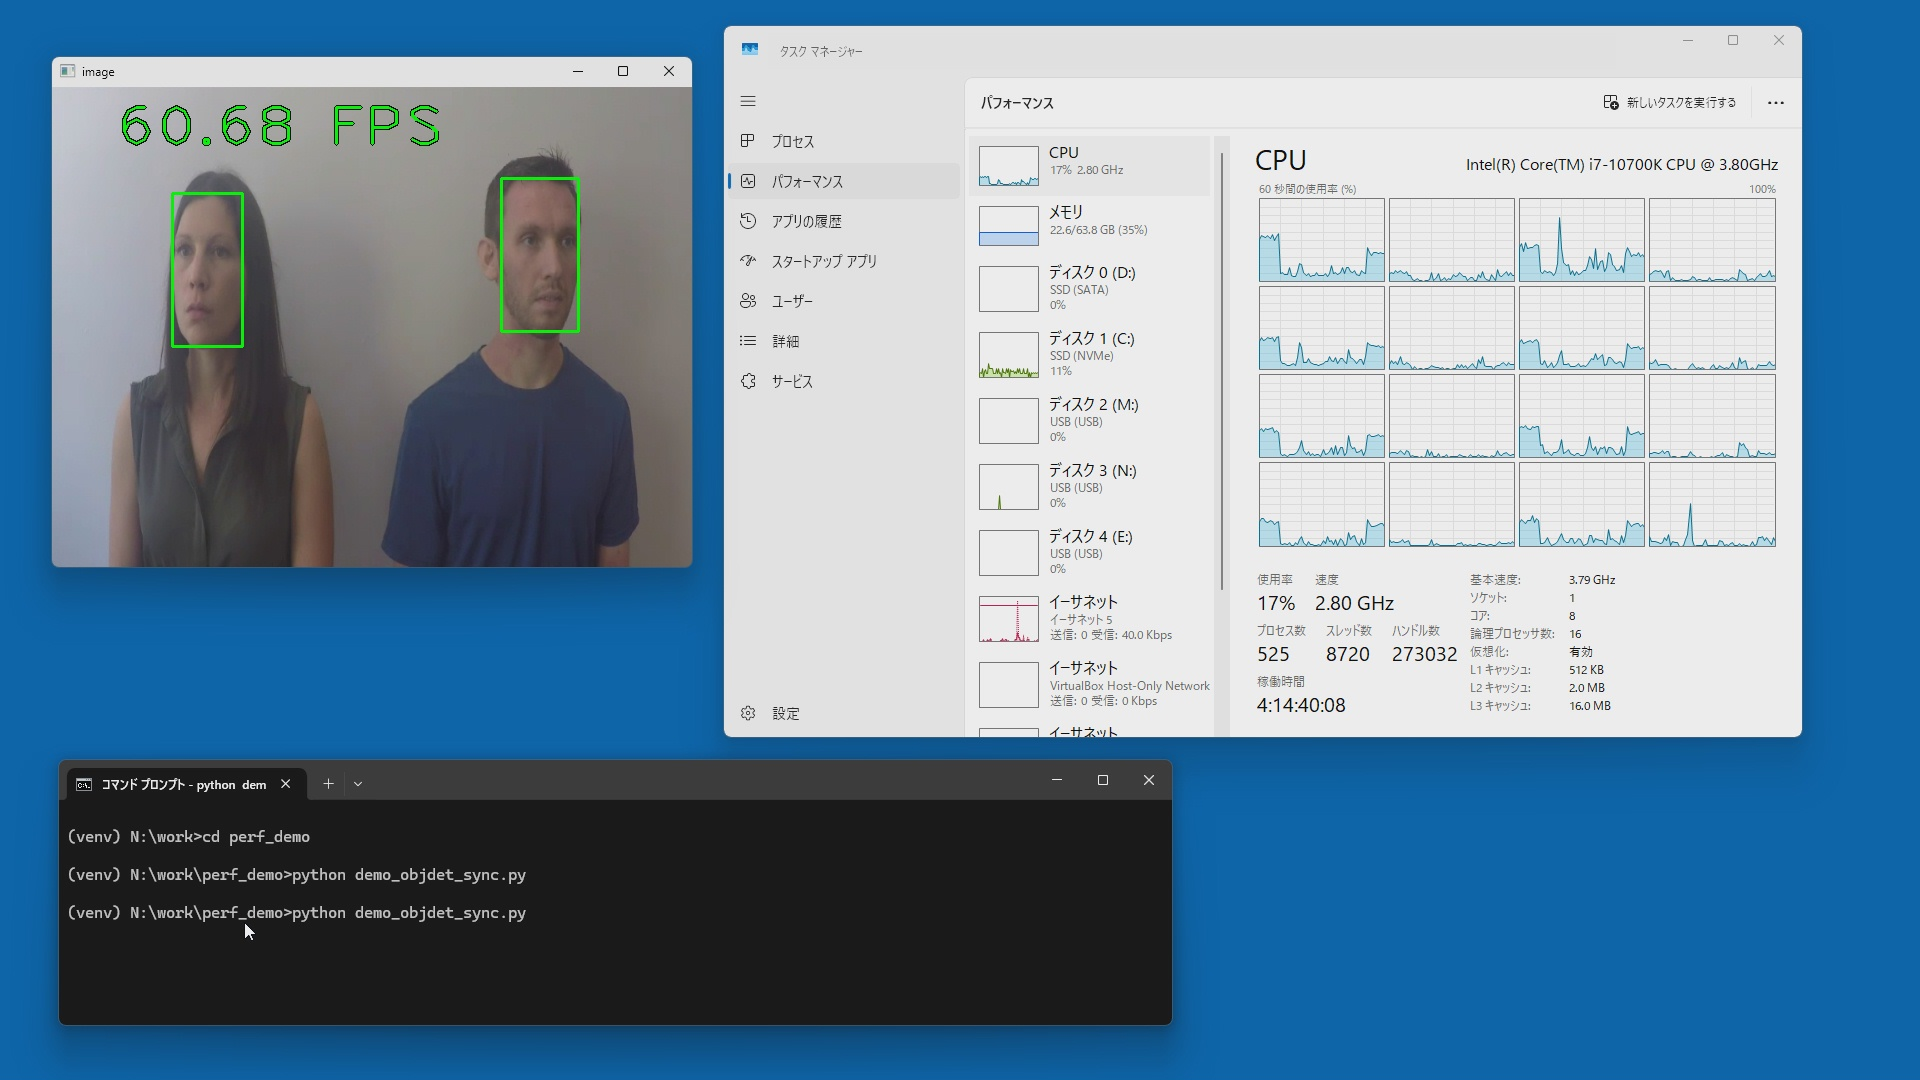
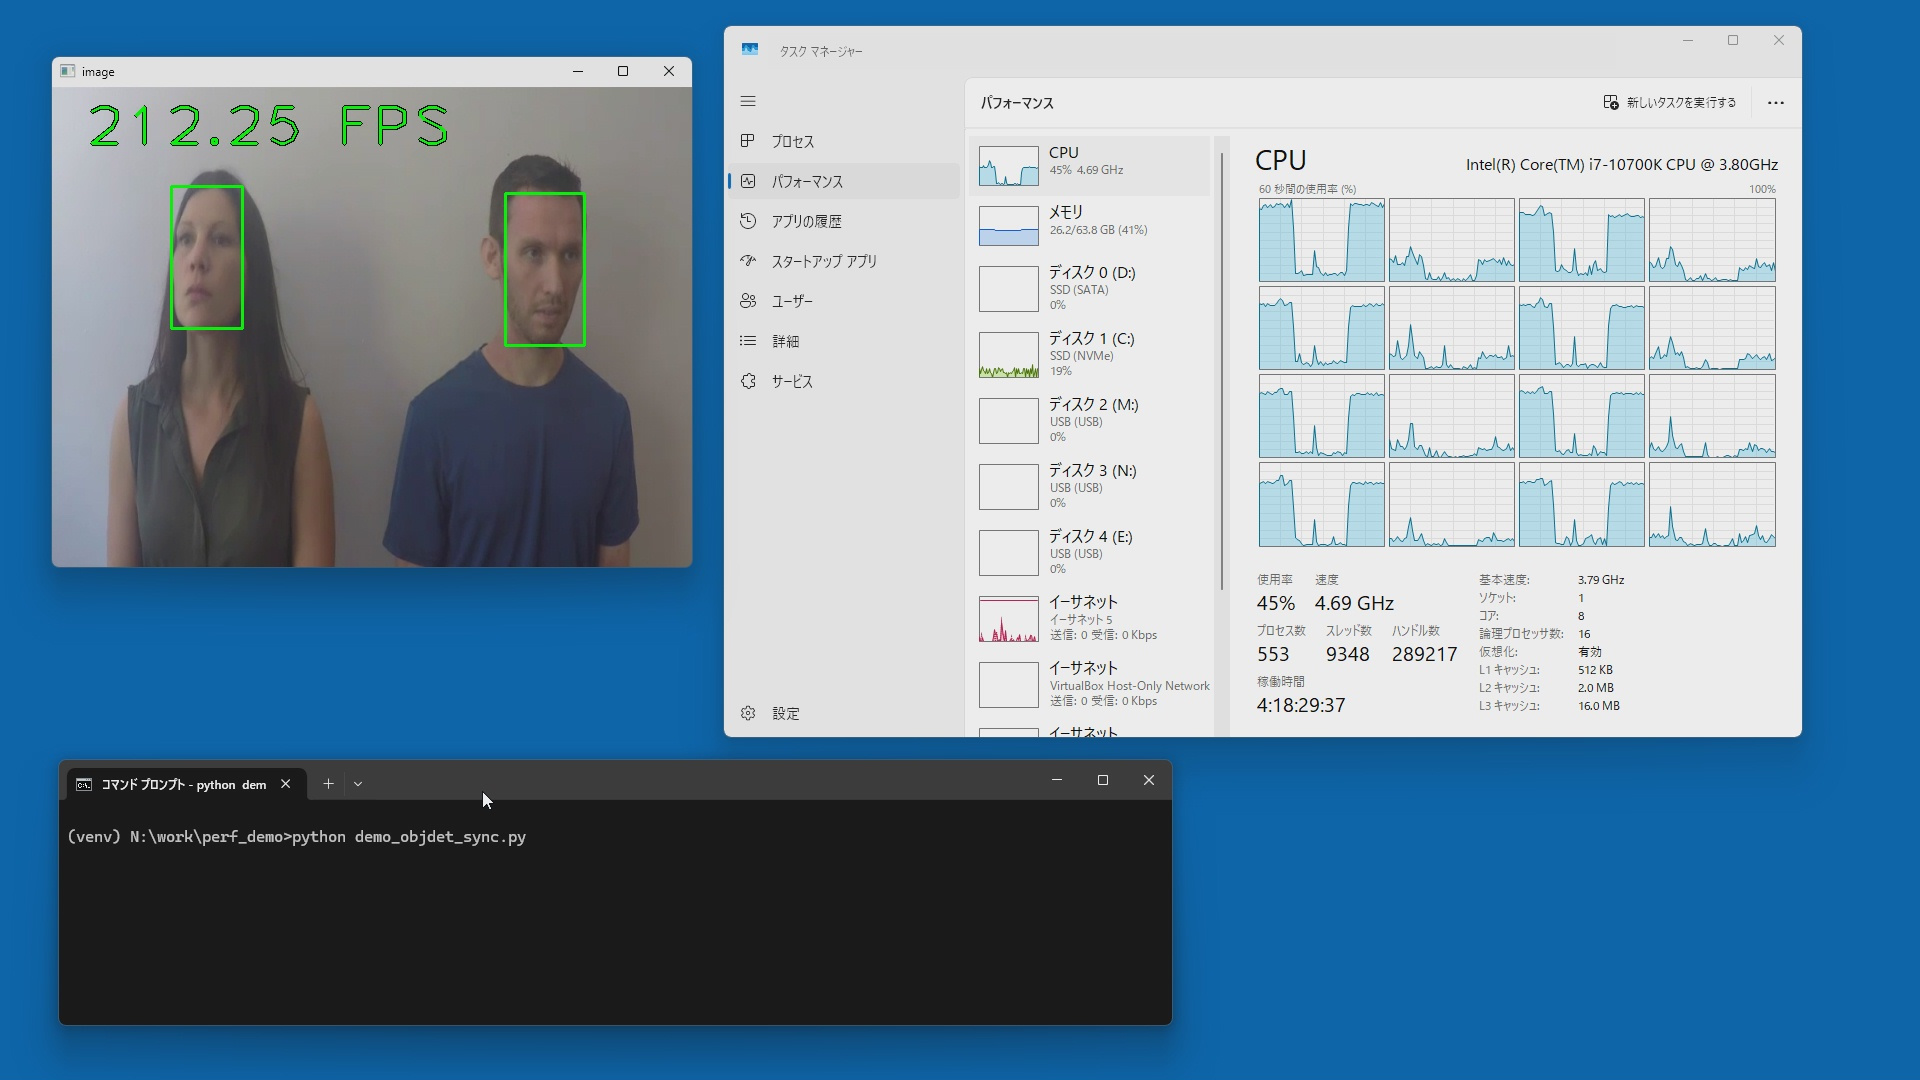
update readme

diff --git a/README.md b/README.md
@@ -32,11 +32,11 @@ config.update({props.num_streams: "8"})             # number of simultaneous inf
 
 config = Core i7-10700K, Mem 64GB, Win11, OpenVINO 2025.0
 
-### Synchronous API (device=CPU) - 60fps
-CPU utilization is 17%
+### Synchronous API (device=CPU) - 212fps
+CPU utilization is 45%
 ![Synchronous](./resources/sync.jpg)
 
-### Acynshronous API (device=CPU) - 1,024fps (x17 to sync)
+### Acynshronous API (device=CPU) - 1,024fps (x4.8 to sync)
 CPU utilization is 100%.
 ![Asynchronous](./resources/async.jpg)
 
